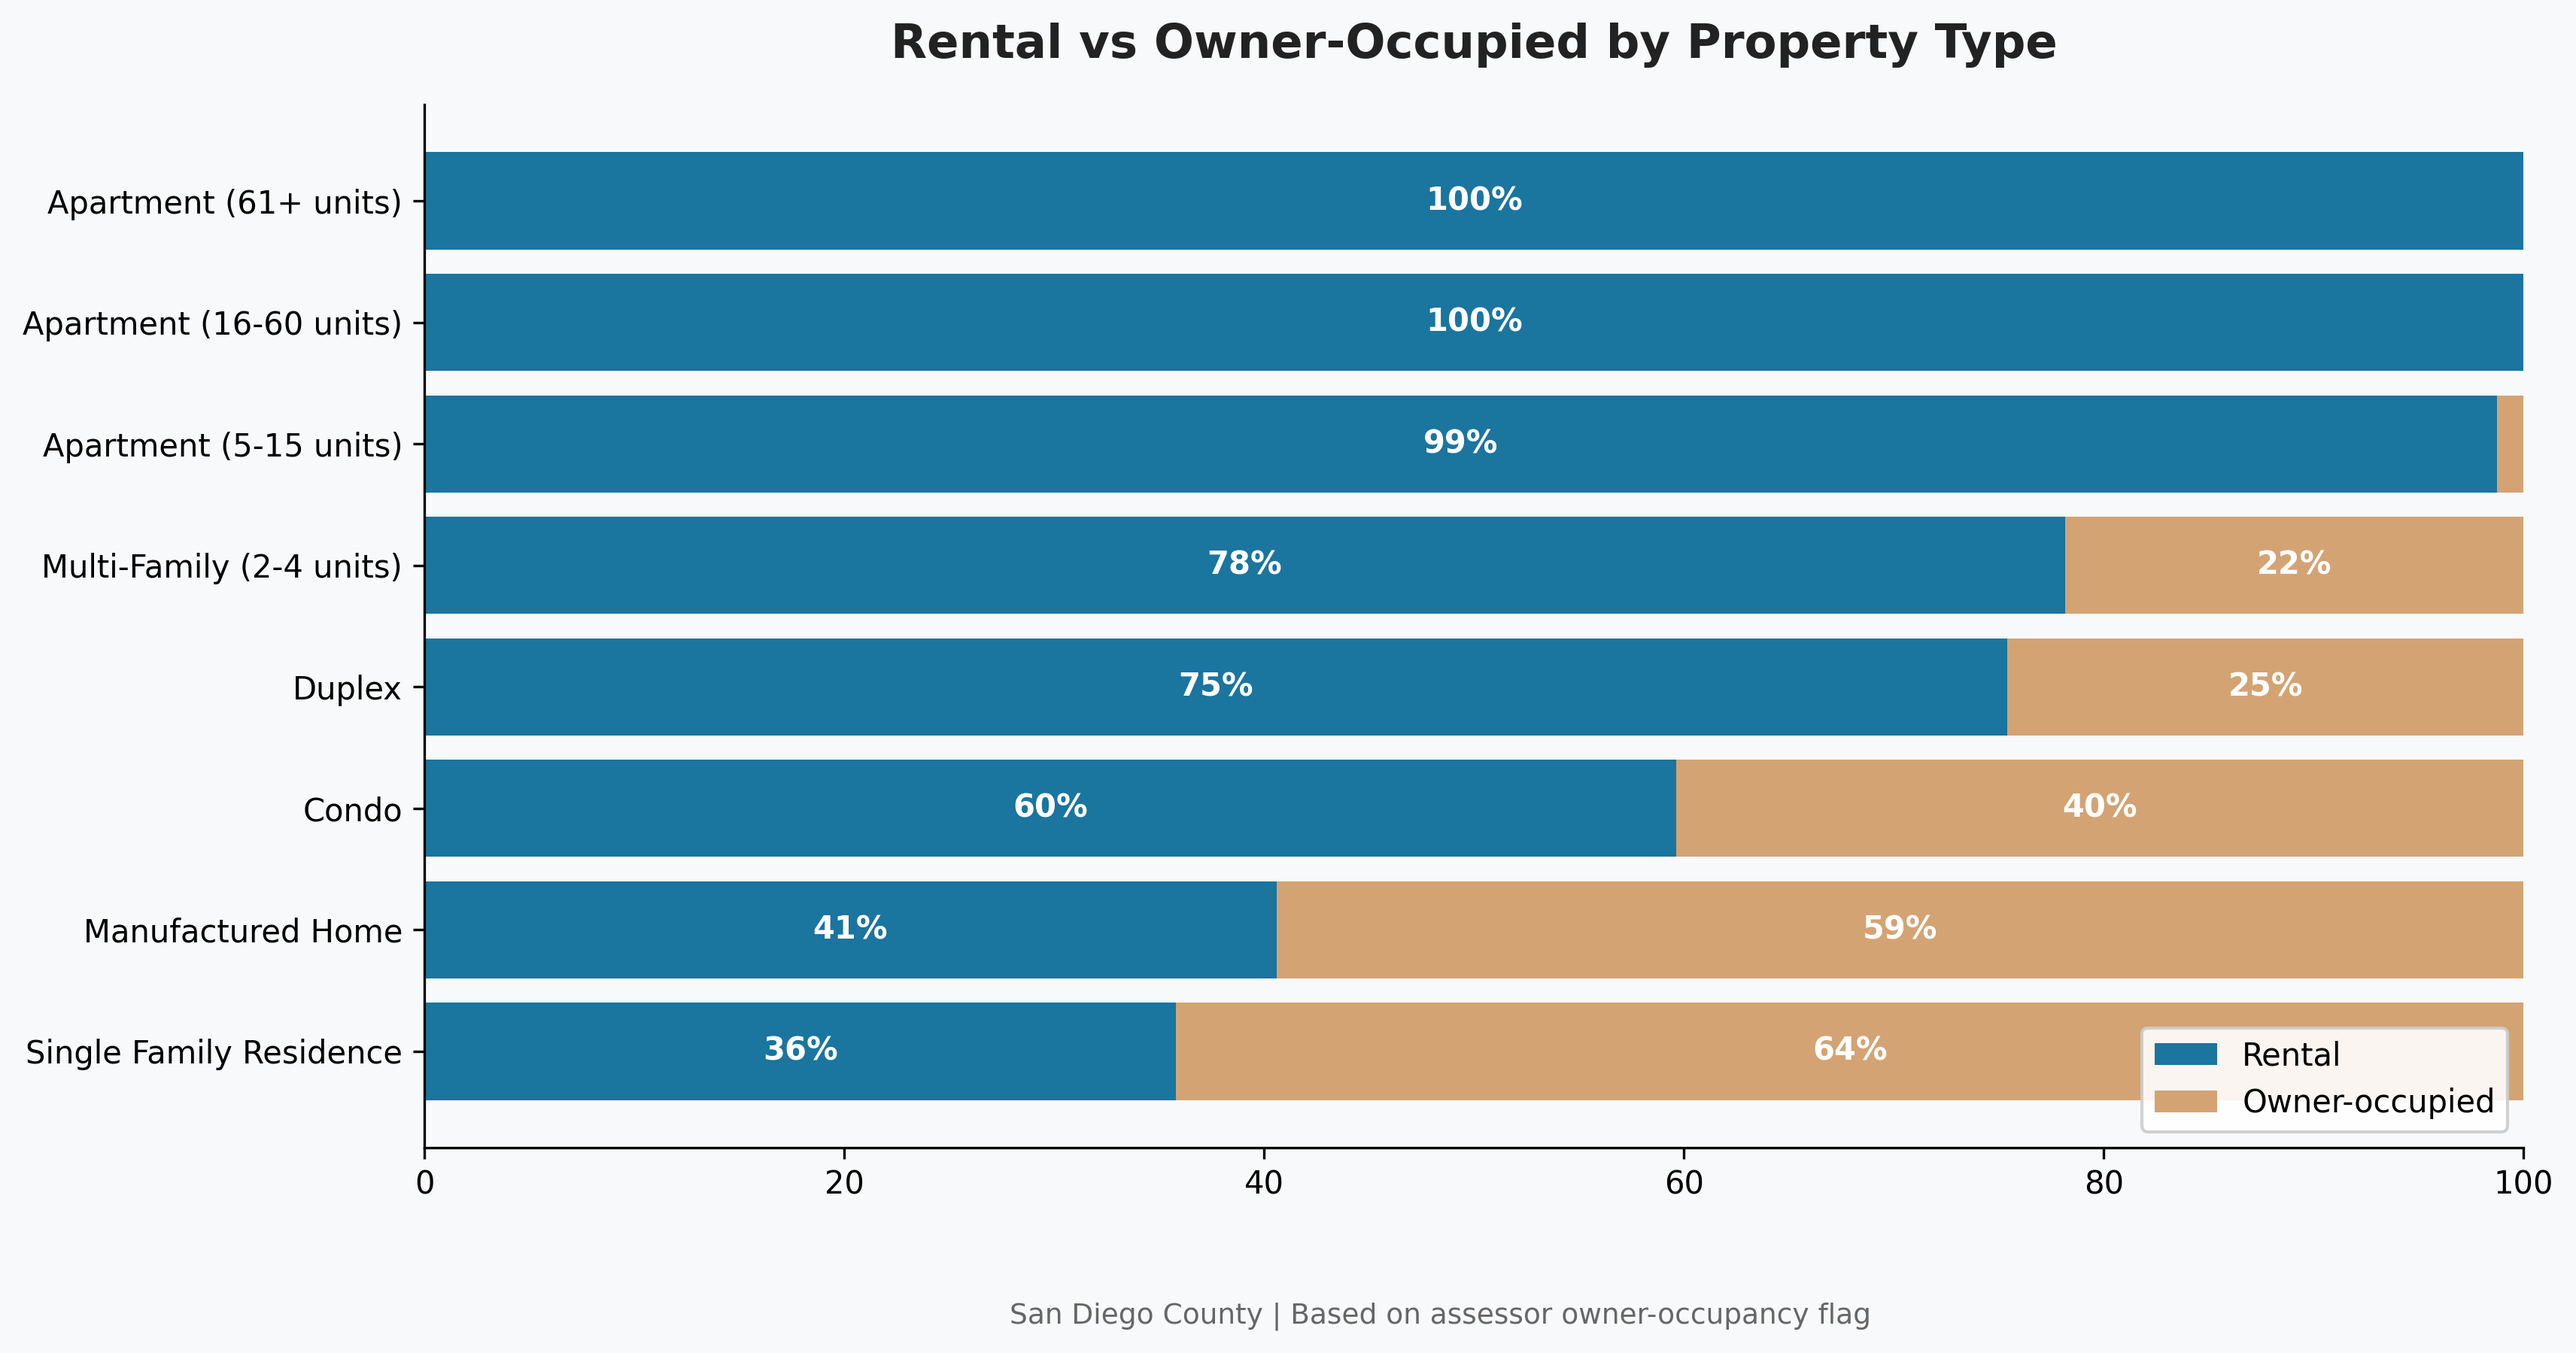
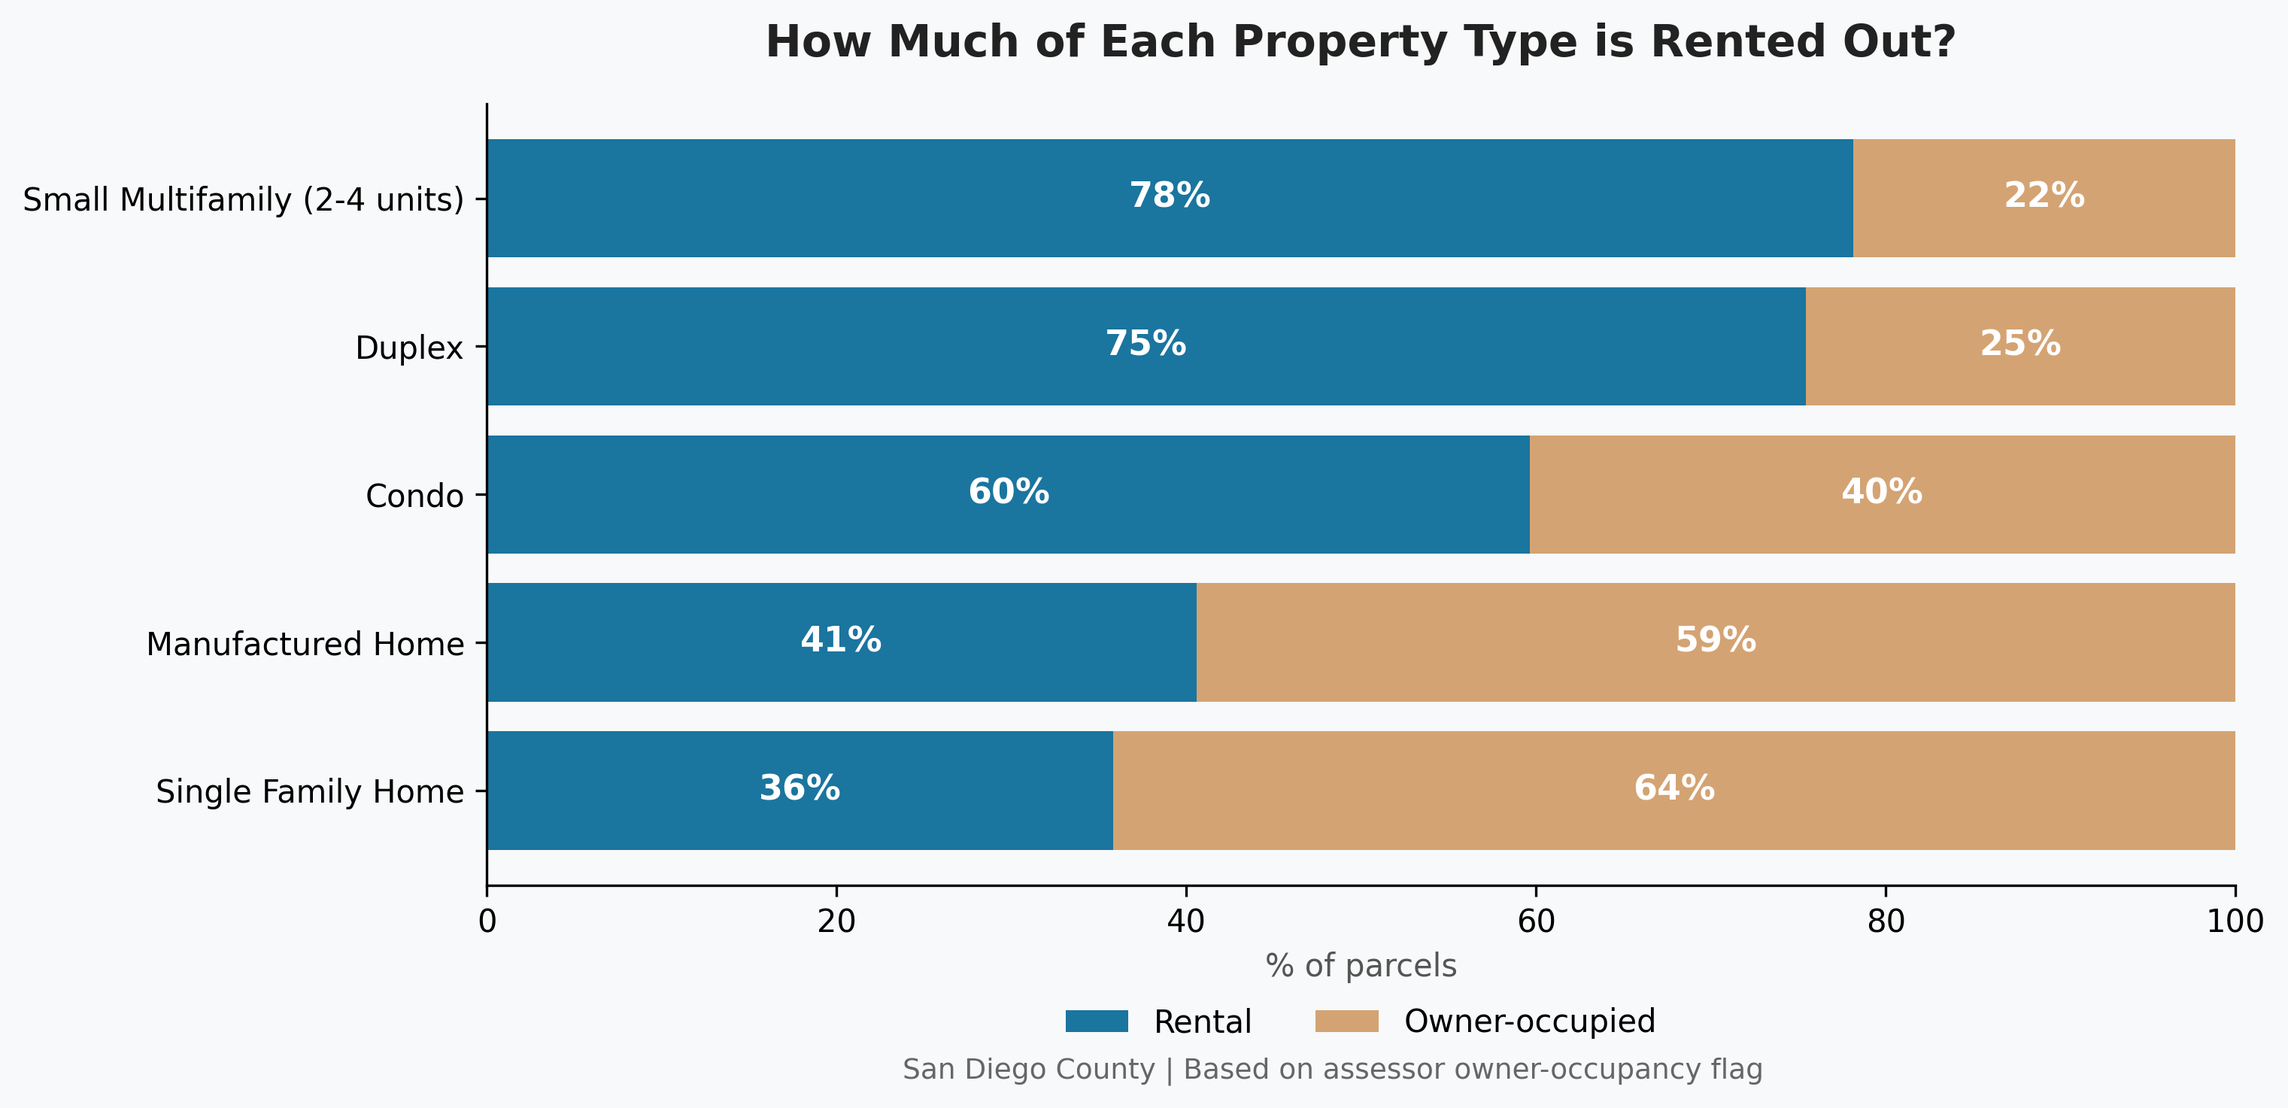
docs: simplify rental-by-type chart, add viz dependencies
Remove apartment types (obviously rentals) from chart. Retitle as a
question for clarity. Add squarify, pyproj, scipy to dependencies.

diff --git a/README.md b/README.md
@@ -35,8 +35,8 @@ a unified dataset for research and policy analysis.
 ![PMC Market Concentration Treemap](docs/images/pmc_treemap.png)
 Share of PMC-managed rental units across San Diego County by property management company.
 
-![Rental vs Owner-Occupied by Property Type](docs/images/rental_by_type.png)
-Percentage of parcels classified as rental vs owner-occupied for each residential property type.
+![How Much of Each Property Type is Rented Out?](docs/images/rental_by_type.png)
+Share of each property type that is rented out vs owner-occupied. 60% of condos are rentals.
 
 ![Airbnb Concentration by Neighborhood](docs/images/airbnb_concentration.png)
 Top 20 neighborhoods by Airbnb listings, split by entire-home vs shared-room rentals.
